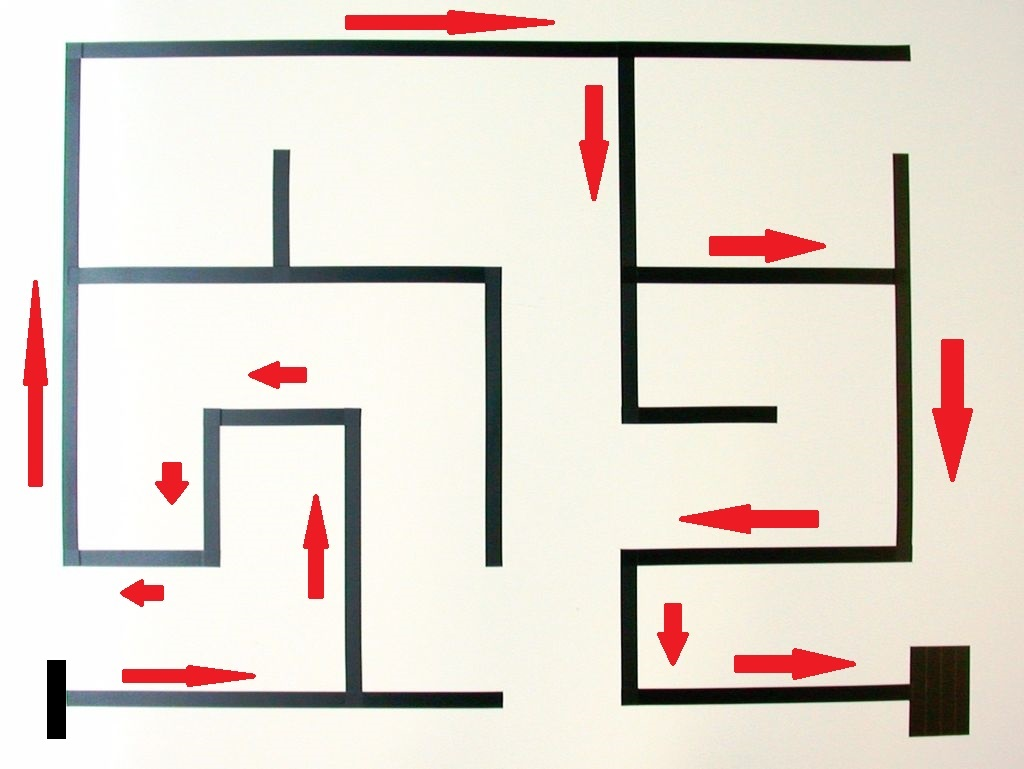
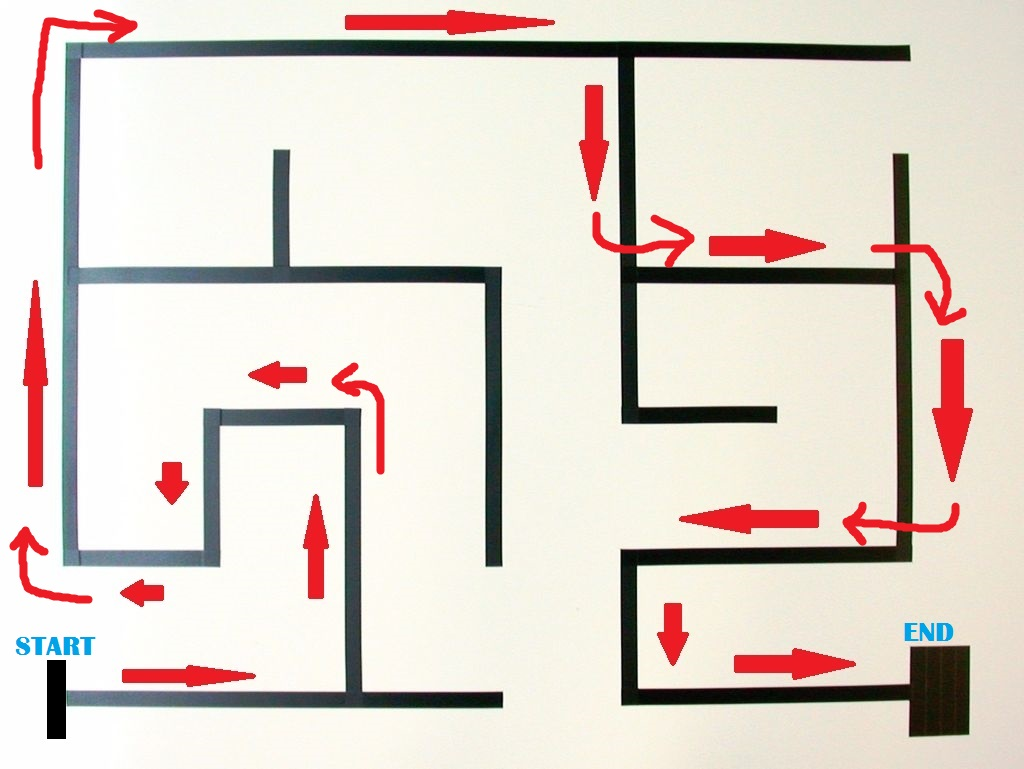
add guide for assignments

diff --git a/README.md b/README.md
@@ -214,8 +214,18 @@ mot.stop()
 3. T - junctions to and fro
 4. maze (see below section for final assignment)
 5. maze shortest path
+## Note for assignment 1 and 2:
+<img src="https://github.com/skyap/AlphaBot2-PiZero/blob/master/images/to.jpg" width="400"></br>
+<img src="https://github.com/skyap/AlphaBot2-PiZero/blob/master/images/to_and_fro.jpg" width="400"></br>
+1. Line tracker sensors return analog readings. You need to convert this to digital for decision making.</br>
+2. You need to understand what your sensors' logic in different situation:</br>
+<img src="https://github.com/skyap/AlphaBot2-PiZero/blob/master/images/logic1.jpg" width="400">
 
-## Note and rules for final assignment:
+## Note for assignment 3
+<img src="https://github.com/skyap/AlphaBot2-PiZero/blob/master/images/t-junctions.jpg" width="400"></br>
+1. Simple straight line with branches 
+
+## Note and rules for assignment 4 and 5:
 1. Simply connected line maze will be used (no loops)
 2. Black line on a while or bright background.
 3. Each line maze has a start and finish point. The robot is expected to follow the lines and find it's way from start to finish. No mark is giving based on finishing time.
